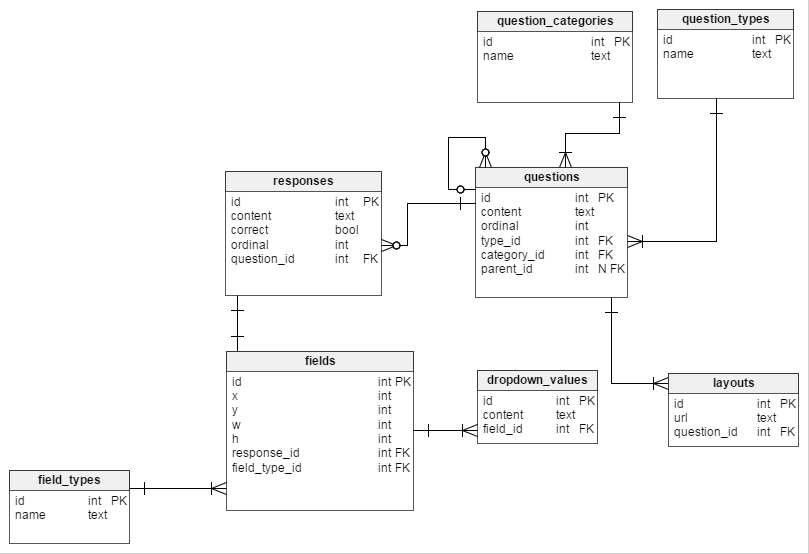
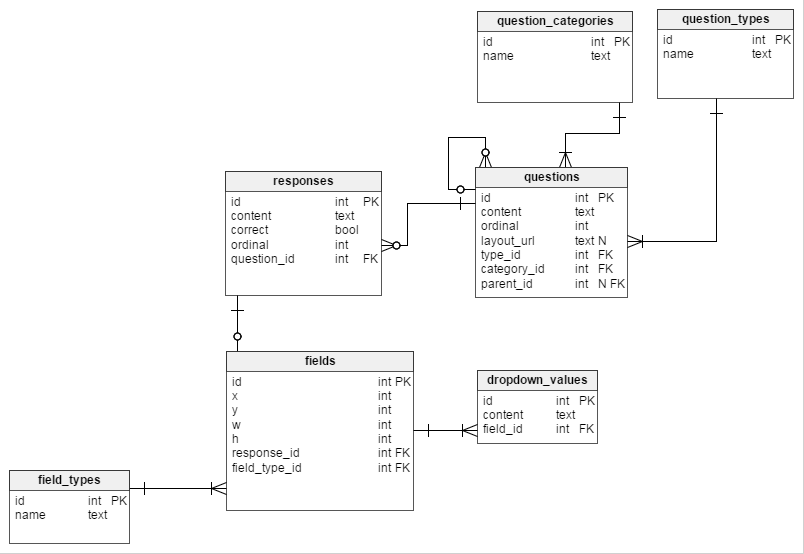
updated the orms and worked on migrations

diff --git a/src/migration/MigrateOne.cs b/src/migration/MigrateOne.cs
@@ -1,0 +1,27 @@
+using System;
+using System.Collections.Generic;
+using System.Linq;
+using System.Text;
+using System.Threading.Tasks;
+using FluentMigrator;
+
+namespace migration
+{
+    [Migration(1)]
+    public class MigrateOne : Migration
+    {
+        public override void Up()
+        {
+            Create.Table("questions")
+                .WithColumn("id").AsInt32().NotNullable().PrimaryKey()
+                .WithColumn("content").AsString().NotNullable()
+                .WithColumn("ordinal").AsInt32().NotNullable()
+                .
+        }
+
+        public override void Down()
+        {
+            throw new NotImplementedException();
+        }
+    }
+}
